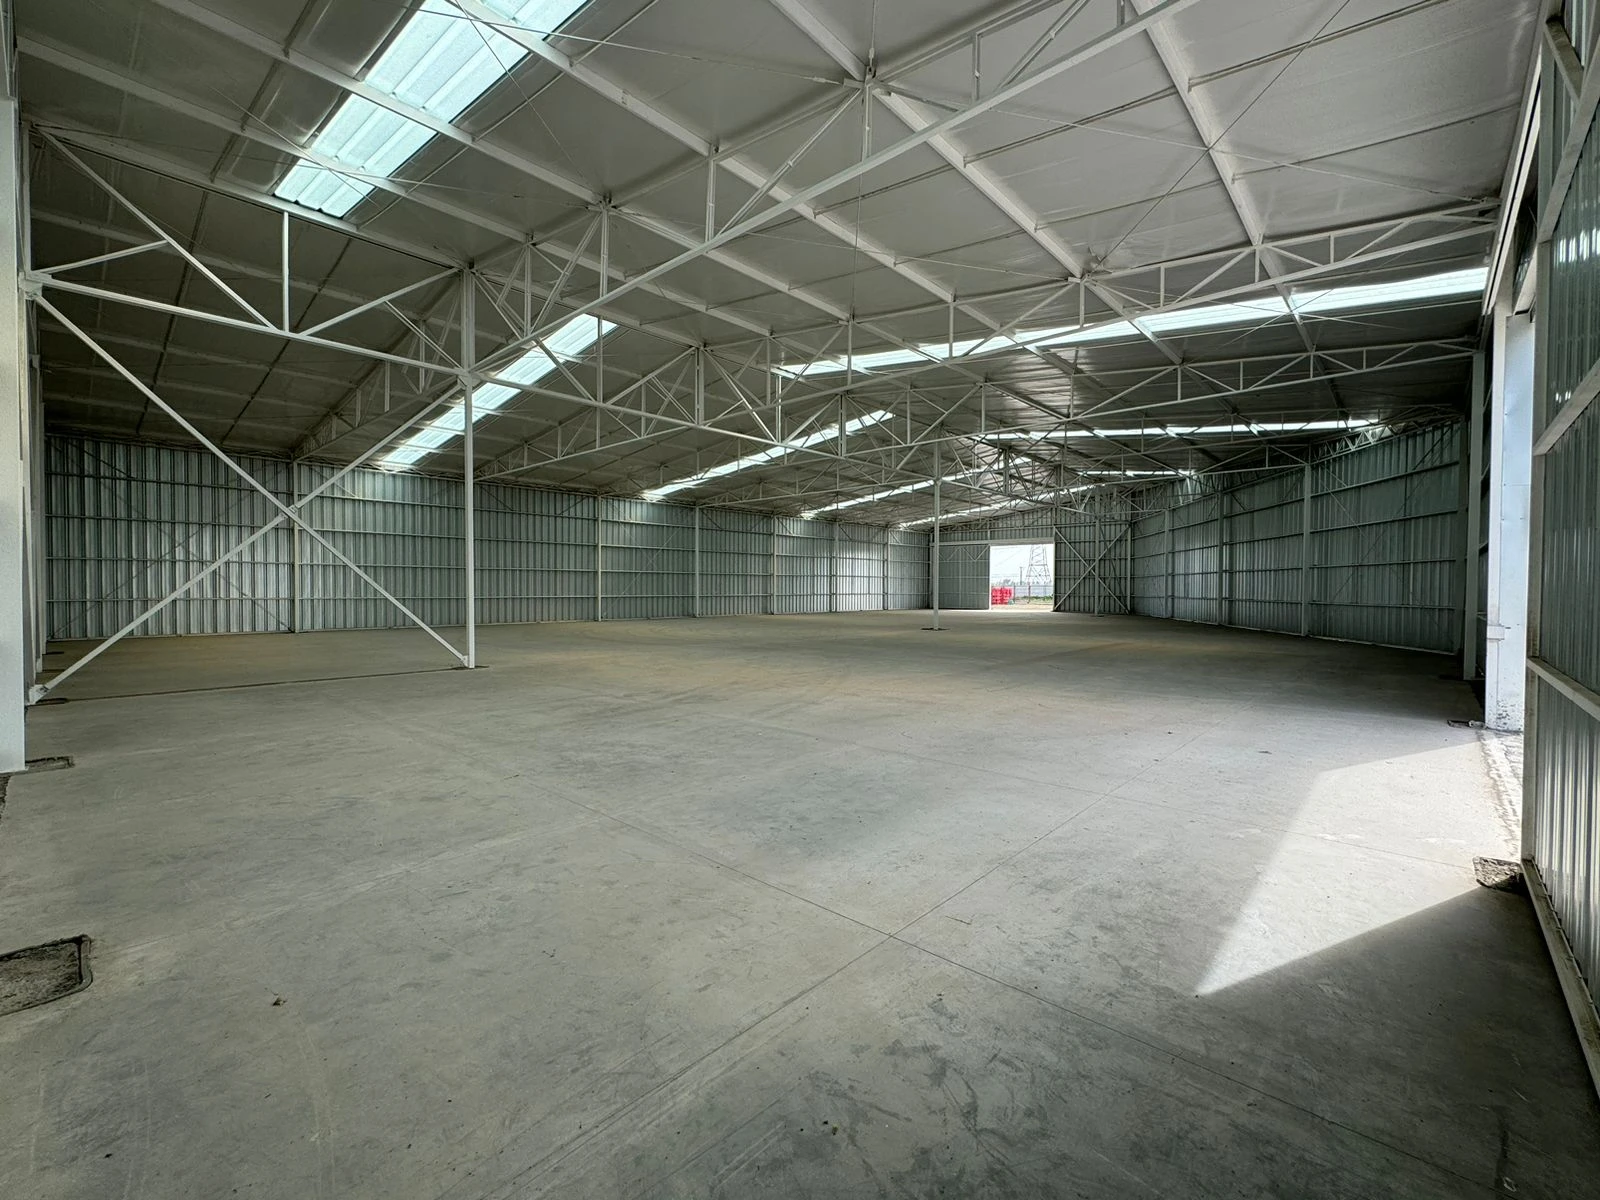
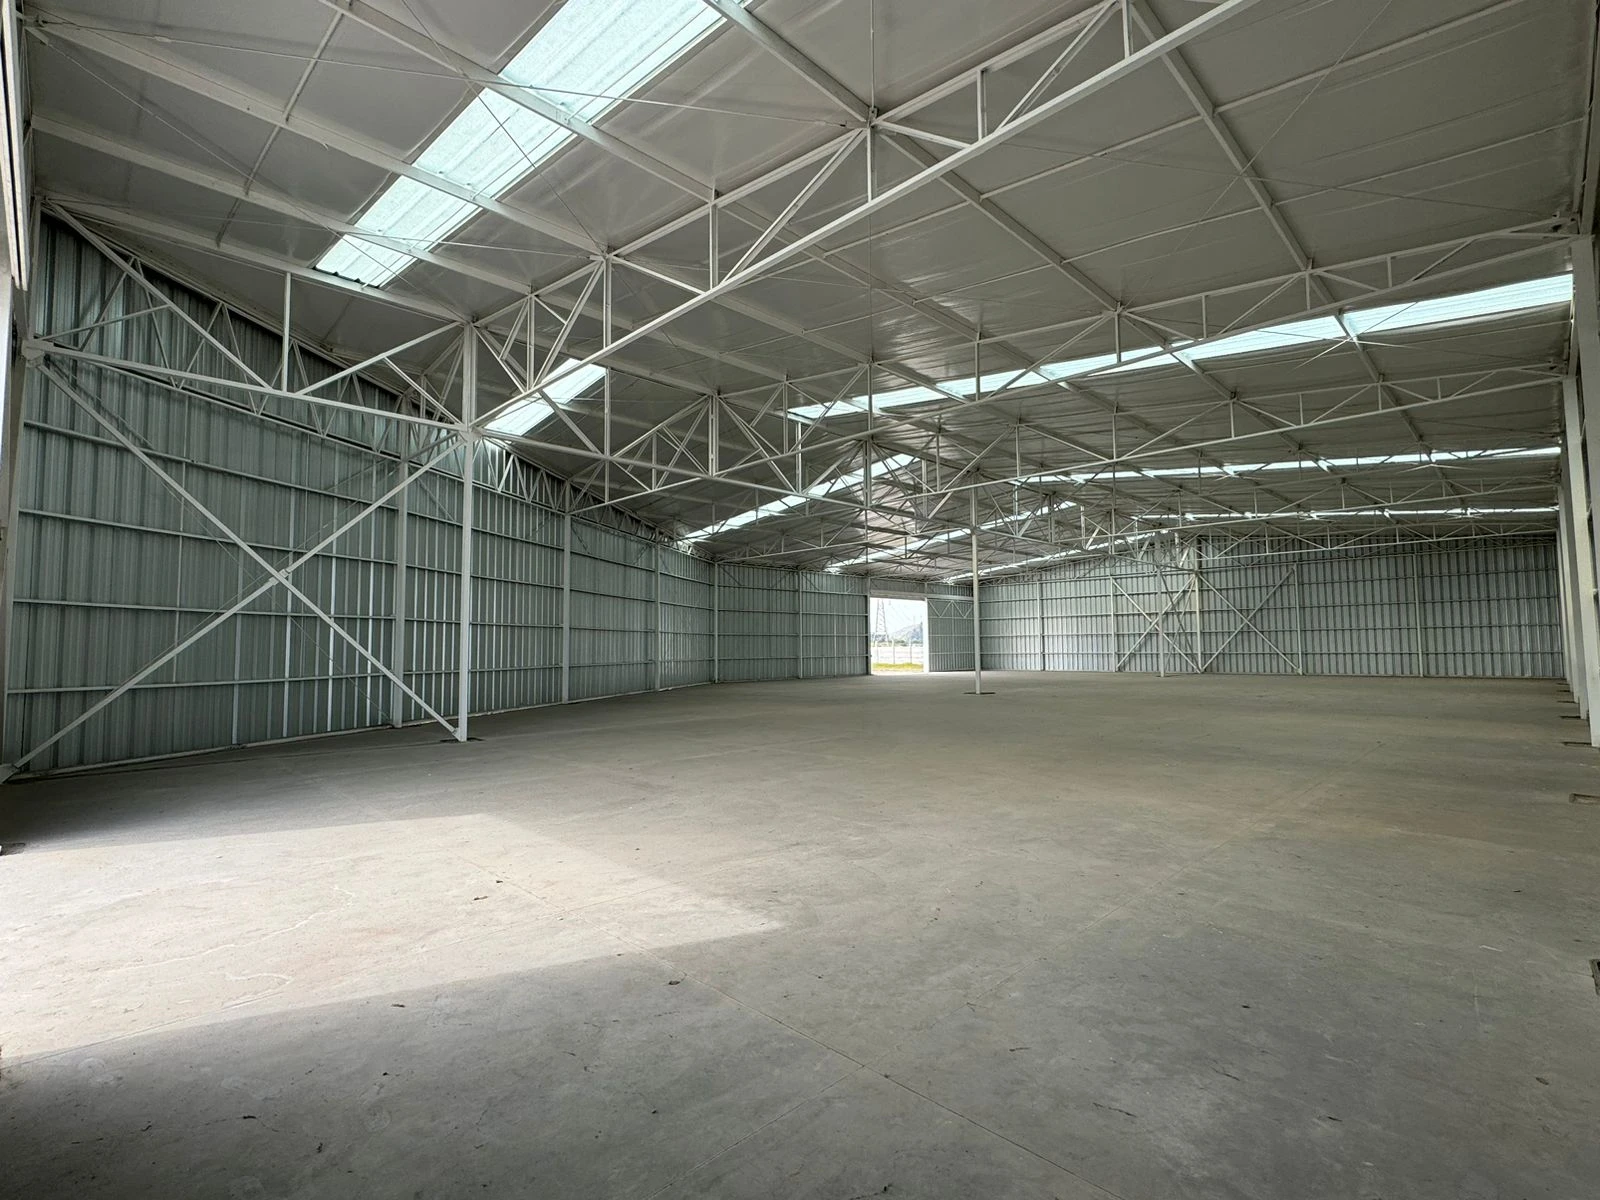
Add files via upload

diff --git a/lib/data.js b/lib/data.js
@@ -67,6 +67,7 @@ export const PROJECTS = [
     name: "El Barrancón",
     min: 623,
     max: 1266,
+    photos: 6,
     wa: "Hola, quiero cotizar disponibilidad en El Barrancón",
     alt: "Bodega industrial El Barrancón en San Bernardo",
     title: "El Barrancón – Bodega en Arriendo San Bernardo | 623–1.266 m²",
@@ -78,6 +79,9 @@ export const PROJECTS = [
     name: "Bosque Catemito",
     min: 360,
     max: 1440,
+    photos: 7,
+    totalM2: 14000,
+    expandM2: 30000,
     wa: "Hola, quiero cotizar disponibilidad en Bosque Catemito",
     alt: "Bodega industrial Bosque Catemito en San Bernardo",
     title: "Bosque Catemito – Bodega en Arriendo San Bernardo | 360–1.440 m²",
@@ -89,6 +93,7 @@ export const PROJECTS = [
     name: "Alto Las Acacias",
     min: 180,
     max: 720,
+    photos: 6,
     wa: "Hola, quiero cotizar disponibilidad en Alto Las Acacias",
     alt: "Bodega industrial Alto Las Acacias en San Bernardo",
     title: "Alto Las Acacias – Bodega en Arriendo San Bernardo | 180–720 m²",
@@ -100,6 +105,7 @@ export const PROJECTS = [
     name: "Acacias Seis",
     min: 1551,
     max: 1551,
+    photos: 6,
     wa: "Hola, quiero cotizar disponibilidad en Acacias Seis",
     alt: "Bodega industrial Acacias Seis en San Bernardo",
     title: "Acacias Seis – Bodega en Arriendo San Bernardo | 1.551 m²",
@@ -111,6 +117,7 @@ export const PROJECTS = [
     name: "Inversiones Duramet",
     min: 450,
     max: 1900,
+    photos: 6,
     wa: "Hola, quiero cotizar disponibilidad en Inversiones Duramet",
     alt: "Bodega industrial Inversiones Duramet en San Bernardo",
     title: "Inversiones Duramet – Bodega en Arriendo San Bernardo | 450–1.900 m²",
@@ -137,21 +144,25 @@ export const mapEmbed = (address) =>
   )}&output=embed`;
 
 export const PROJECT_SPECS = [
-  ["Seguridad", "24/7 · CCTV"],
+  ["Seguridad", "24/7 · Cerco eléctrico · CCTV y PTZ"],
   ["Energía", "Trifásica instalada"],
-  ["Pavimento", "Radier industrial"],
-  ["Acceso", "Camiones · Patio de maniobras"],
+  ["Radieres", "Industriales alisados"],
+  ["Maniobra", "Patios amplios · Vías extra anchas"],
+  ["Camiones", "Acceso directo · Estacionamiento"],
   ["Control", "Acceso controlado"],
 ];
 
 export const EQUIP_LIST = [
   "Seguridad 24/7",
-  "CCTV",
-  "Energía trifásica",
+  "Cerco eléctrico perimetral",
+  "Cámaras CCTV y PTZ en exterior",
   "Control de acceso",
-  "Radieres industriales",
-  "Patio de maniobras",
-  "Acceso para camiones",
+  "Energía trifásica",
+  "Radieres industriales alisados",
+  "Patios de maniobra amplios",
+  "Vías de circulación extra anchas",
+  "Estacionamiento para camiones",
+  "Acceso directo para camiones",
 ];
 
 // ── FAQS ────────────────────────────────────────────────────────────────────
@@ -178,7 +189,7 @@ export const FAQ_GENERAL = [
   },
   {
     q: "¿Las bodegas cuentan con seguridad?",
-    a: "Sí, todos los proyectos tienen seguridad 24/7, CCTV y control de acceso.",
+    a: "Sí: seguridad 24/7, cerco eléctrico perimetral, cámaras CCTV y PTZ en el exterior, y control de acceso.",
   },
   {
     q: "¿Puedo visitar la bodega antes de decidir?",
@@ -193,7 +204,7 @@ export const FAQ_GENERAL = [
 export const FAQ_CONTACTO = [
   {
     q: "¿En cuánto tiempo responden?",
-    a: "En menos de 24 horas hábiles.",
+    a: "Muy rápido: por WhatsApp te respondemos casi al instante en horario hábil. Por el formulario, el mismo día.",
   },
   {
     q: "¿Necesito visitar la bodega antes de cotizar?",
@@ -212,7 +223,7 @@ export const FAQ_CONTACTO = [
 // ── WHY US ──────────────────────────────────────────────────────────────────
 export const WHY_US = [
   ["Trato directo", "Negocias directamente con nosotros, sin corredores ni comisión de corretaje."],
-  ["Respuesta rápida", "Te contactamos en menos de 24 horas hábiles, con disponibilidad vigente."],
-  ["Espacios equipados", "Seguridad 24/7, energía, pavimento firme y acceso para camiones."],
+  ["Respuesta rápida", "Escríbenos por WhatsApp y te respondemos casi al instante en horario hábil."],
+  ["Listas para operar", "Radieres industriales alisados, patios de maniobra amplios y vías de circulación extra anchas."],
   ["A tu medida", "Desde pymes hasta grandes operaciones: distintos tamaños y plazos flexibles."],
 ];

diff --git a/app/bodegas/[proyecto]/page.jsx b/app/bodegas/[proyecto]/page.jsx
@@ -6,6 +6,7 @@ import {
 } from "../../../lib/data";
 import { SectionLabel, JsonLd, breadcrumbSchema } from "../../../components/ui";
 import { ProjectImage } from "../../../components/ProjectImage";
+import { ProjectGallery } from "../../../components/ProjectGallery";
 import { BtnWA } from "../../../components/Buttons";
 import { pageMeta } from "../../../lib/seo";
 
@@ -74,8 +75,10 @@ export default function ProjectPage({ params }) {
         </div>
       </div>
 
-      {/* Hero photo — full bleed, no border-radius */}
-      <ProjectImage projectId={project.id} height={360} alt={project.alt} />
+      {/* Photo gallery (interiors + exteriors) */}
+      <div style={{ ...W, paddingTop: 24, paddingBottom: 8 }}>
+        <ProjectGallery projectId={project.id} alt={project.alt} count={project.photos || 3} />
+      </div>
 
       {/* Project header: H1 left, m² right */}
       <div style={{ borderBottom: `0.5px solid ${C.border}`, borderTop: `0.5px solid ${C.border}` }}>
@@ -110,10 +113,18 @@ export default function ProjectPage({ params }) {
               <span style={{ fontFamily: F.body, fontSize: 14, color: C.navy, fontWeight: 500 }}>{val}</span>
             </div>
           ))}
-          <div style={{ display: "grid", gridTemplateColumns: "160px 1fr", padding: "13px 0", borderBottom: `1px solid ${C.navy}` }}>
-            <span style={{ fontFamily: F.body, fontSize: 12, color: C.slate, textTransform: "uppercase", letterSpacing: "0.07em", paddingTop: 1 }}>Superficie</span>
+          <div style={{ display: "grid", gridTemplateColumns: "160px 1fr", padding: "13px 0", borderBottom: project.totalM2 ? `0.5px solid ${C.border}` : `1px solid ${C.navy}` }}>
+            <span style={{ fontFamily: F.body, fontSize: 12, color: C.slate, textTransform: "uppercase", letterSpacing: "0.07em", paddingTop: 1 }}>Disponible</span>
             <span style={{ fontFamily: F.head, fontSize: 15, color: C.blue, fontWeight: 700 }}>{surface}</span>
           </div>
+          {project.totalM2 && (
+            <div style={{ display: "grid", gridTemplateColumns: "160px 1fr", padding: "13px 0", borderBottom: `1px solid ${C.navy}` }}>
+              <span style={{ fontFamily: F.body, fontSize: 12, color: C.slate, textTransform: "uppercase", letterSpacing: "0.07em", paddingTop: 1 }}>Superficie total</span>
+              <span style={{ fontFamily: F.body, fontSize: 14, color: C.navy, fontWeight: 500 }}>
+                {m2(project.totalM2)} construidos{project.expandM2 ? ` · ampliable a ${m2(project.expandM2)}` : ""}
+              </span>
+            </div>
+          )}
 
           {/* Location + map */}
           <div style={{ marginTop: 40 }}>
@@ -149,7 +160,7 @@ export default function ProjectPage({ params }) {
             <BtnWA msg={project.wa} full>Contáctanos ahora</BtnWA>
           </div>
           <div style={{ borderTop: `0.5px solid ${C.border}`, paddingTop: 20 }}>
-            {["Trato directo · sin intermediarios", "Respuesta en menos de 24 horas", "Sin compromiso en la primera consulta"].map((t) => (
+            {["Trato directo · sin intermediarios", "Respuesta casi al instante por WhatsApp", "Sin compromiso en la primera consulta"].map((t) => (
               <div key={t} style={{ display: "flex", alignItems: "center", gap: 8, marginBottom: 10 }}>
                 <div style={{ color: C.blue, fontSize: 15, lineHeight: 1 }}>—</div>
                 <span style={{ fontFamily: F.body, fontSize: 12.5, color: C.slate, lineHeight: 1.5 }}>{t}</span>

diff --git a/components/ProjectGallery.jsx b/components/ProjectGallery.jsx
@@ -1,0 +1,45 @@
+"use client";
+
+import { useState } from "react";
+import { C, F } from "../lib/data";
+
+/**
+ * Swipeable photo gallery for a project. Shows /photos/<id>/foto-0N.webp,
+ * skipping any that fail to load. Scroll-snap carousel (works on touch + desktop).
+ */
+export function ProjectGallery({ projectId, alt = "", count = 3 }) {
+  const [broken, setBroken] = useState({});
+  const items = Array.from({ length: count }, (_, i) => i + 1).filter((n) => !broken[n]);
+
+  return (
+    <div>
+      <div className="nav-scroll" style={{
+        display: "flex", gap: 12, overflowX: "auto", scrollSnapType: "x mandatory",
+        WebkitOverflowScrolling: "touch", padding: "0 0 6px",
+      }}>
+        {Array.from({ length: count }, (_, i) => i + 1).map((n) => (
+          <div key={n} style={{
+            flex: items.length > 1 ? "0 0 88%" : "0 0 100%",
+            maxWidth: items.length > 1 ? 760 : "100%",
+            scrollSnapAlign: "start",
+            display: broken[n] ? "none" : "block",
+            backgroundColor: "#e4e9f2",
+          }}>
+            <img
+              src={`/photos/${projectId}/foto-0${n}.webp`}
+              alt={`${alt} — foto ${n}`}
+              loading="lazy"
+              onError={() => setBroken((b) => ({ ...b, [n]: true }))}
+              style={{ width: "100%", height: 420, objectFit: "cover", display: "block" }}
+            />
+          </div>
+        ))}
+      </div>
+      <div style={{ marginTop: 10 }}>
+        <span style={{ fontFamily: F.mono, fontSize: 10.5, color: C.slate, letterSpacing: "0.06em" }}>
+          ← Desliza para ver más fotos →
+        </span>
+      </div>
+    </div>
+  );
+}

diff --git a/components/ContactForm.jsx b/components/ContactForm.jsx
@@ -119,7 +119,7 @@ export default function ContactForm() {
         </div>
         <h3 style={{ fontFamily: F.head, fontWeight: 700, fontSize: 22, color: C.navy, marginBottom: 10 }}>Solicitud recibida</h3>
         <p style={{ fontFamily: F.body, fontSize: 15, color: C.slate, lineHeight: 1.7 }}>
-          Te contactaremos en menos de 24 horas hábiles con la disponibilidad vigente.
+          Te contactaremos muy pronto con la disponibilidad vigente. Si quieres respuesta al instante, escríbenos por WhatsApp.
         </p>
       </div>
     );
@@ -129,7 +129,7 @@ export default function ContactForm() {
     <form onSubmit={handleSubmit} noValidate style={{ padding: "0 48px 0 0", borderRight: `0.5px solid ${C.border}` }}>
       <h2 style={{ fontFamily: F.head, fontWeight: 800, fontSize: 22, color: C.navy, marginBottom: 8 }}>Completa el formulario</h2>
       <div style={{ fontFamily: F.body, fontSize: 10, color: C.slate, textTransform: "uppercase", letterSpacing: "0.10em", marginBottom: 28, paddingBottom: 16, borderBottom: `0.5px solid ${C.border}` }}>
-        Respuesta en menos de 24 horas hábiles
+        Respuesta rápida · sin compromiso
       </div>
 
       {/* Hidden UTM / tracking fields */}

diff --git a/app/contacto/page.jsx b/app/contacto/page.jsx
@@ -8,7 +8,7 @@ import { pageMeta } from "../../lib/seo";
 export const metadata = pageMeta({
   title: "Contacto y Cotización | Portal de Bodegas",
   description:
-    "Conversemos sobre la bodega ideal para tu empresa. Escríbenos por WhatsApp o completa el formulario y te contactamos en menos de 24 horas.",
+    "Conversemos sobre la bodega ideal para tu empresa. Escríbenos por WhatsApp y te respondemos casi al instante, o completa el formulario y te contactamos muy pronto.",
   path: "/contacto/",
 });
 
@@ -32,7 +32,7 @@ export default function ContactoPage() {
       }}>
         <div style={{ ...W, padding: 0 }}>
           <div style={{ fontFamily: F.mono, fontSize: 11, color: C.slateLight, textTransform: "uppercase", letterSpacing: "0.14em", marginBottom: 14 }}>
-            Contacto · Respuesta en 24 horas
+            Contacto · Respuesta rápida por WhatsApp
           </div>
           <h1 style={{ fontFamily: F.head, fontWeight: 600, fontSize: "clamp(30px,4.4vw,50px)", color: "white", letterSpacing: "-0.015em", margin: 0, lineHeight: 1.05 }}>
             Hablemos de tu próxima bodega

diff --git a/app/page.jsx b/app/page.jsx
@@ -107,7 +107,7 @@ export default function HomePage() {
             ["5 proyectos", "Disponibles en San Bernardo"],
             ["180 – 1.900 m²", "Superficie por proyecto"],
             ["Trato directo", "Sin intermediarios ni comisiones"],
-            ["< 24 horas", "Tiempo de respuesta"],
+            ["Al instante", "Respuesta por WhatsApp"],
           ].map(([val, lab], i) => (
             <div key={lab} style={{ flex: 1, minWidth: 150, padding: "28px 32px", borderLeft: i > 0 ? `0.5px solid ${C.border}` : "none" }}>
               <div style={{ fontFamily: F.head, fontWeight: 800, fontSize: 22, color: C.navy, lineHeight: 1, marginBottom: 6 }}>{val}</div>

diff --git a/app/bodegas/san-bernardo/page.jsx b/app/bodegas/san-bernardo/page.jsx
@@ -15,7 +15,7 @@ export const metadata = pageMeta({
 const STEPS = [
   ["Elige un proyecto", "Revisa los cinco proyectos disponibles y su superficie."],
   ["Indica tu metraje", "Cuéntanos cuánto espacio necesitas y para qué uso."],
-  ["Recibe tu propuesta", "Te enviamos una cotización a medida en menos de 24 horas hábiles."],
+  ["Recibe tu propuesta", "Te respondemos casi al instante por WhatsApp con una cotización a tu medida."],
 ];
 
 export default function SanBernardoPage() {
